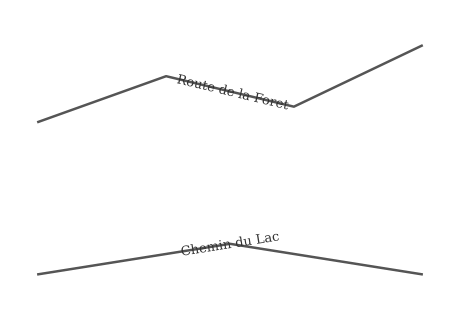
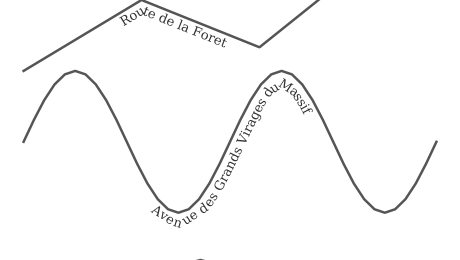
docs: data-defined size is dropped (re-inject Size expr), replace line-label screenshots in place
QGIS exports data-defined size as a static Size (keeps only rotation), so GeoServer
draws markers uniform; re-inject Size = field * 3.78 (mm->px) to restore it. Replace
the ddl and line screenshots with the corrected/improved renders instead of adding
an _improved copy.

diff --git a/docs/qgis-vs-geoserver-styling.md b/docs/qgis-vs-geoserver-styling.md
@@ -14,7 +14,7 @@ The symbology path mostly holds; the breakage is in labels, expressions, data-de
 | Polygon fill and outline + label | 201 | matches | works | - |
 | Simple field label | 201 | matches | works | - |
 | Data-defined rotation | 201 | matches (orientations vary) | works | - |
-| Data-defined size | 201 | varies, but at a much smaller scale than QGIS: the biggest marker renders small | degrades | set the symbol size unit in QGIS; verify, do not assume |
+| Data-defined size | 201 | dropped: QGIS exports a static `Size`, so GeoServer draws every marker the same; re-injecting the expression restores it | degrades then fixable | re-inject `Size` as `field * 3.78` (mm to px) |
 | Expression label with a string function | 500 | n/a | breaks | `fix-sld-functions.py` (rename or rework) |
 | Font marker | 201 | render fails: `Unknown font <name>` when the font is not in the container | breaks at render | install the font in GeoServer (Cloud 3.0.2: `/opt/additional_fonts`) |
 | Label on Postgres `text[]`, one value | 201 | matches | works | - |
@@ -43,7 +43,7 @@ Categorized renderer plus labels: reproduces (minor marker-size and label-offset
 | --- | --- |
 | ![cat_pts in QGIS](img/qgis_cat.png) | ![cat_pts in GeoServer](img/gs_cat.png) |
 
-Data-defined size and rotation: QGIS varies both; GeoServer keeps the rotation but renders every marker the same small size.
+Data-defined size and rotation: QGIS varies both. GeoServer keeps the rotation, but QGIS drops the size on export (static `Size`), so by default every marker is the same; shown here after re-injecting the size expression, which restores the variation to match QGIS.
 
 | QGIS | GeoServer |
 | --- | --- |
@@ -57,13 +57,11 @@ Markers rotated by a field (wind arrows): orientations reproduce; markers render
 
 Curved label along a line: the text follows the line on both; by default GeoServer centres it on the line while QGIS offsets it above.
 
-| QGIS | GeoServer (as exported) |
+As exported, the default looks poor: the label sits on the line and QGIS writes `maxAngleDelta=25`, too low to follow a real bend. Adding the GeoServer line-label vendor options (see the skill) lifts it off the line and follows the curve through its vertices:
+
+| QGIS | GeoServer (with line-label vendor options) |
 | --- | --- |
 | ![lines in QGIS](img/qgis_lines.png) | ![lines in GeoServer](img/gs_lines.png) |
-
-The default looks poor: the label sits on the line and QGIS exports `maxAngleDelta=25`, too low to follow a real bend. Add the GeoServer line-label vendor options (see the skill) and it lifts off the line and follows the curve through its vertices:
-
-![improved line labels in GeoServer](img/gs_lines_improved.png)
 
 Graduated renderer on real data (wind-flow streamlines, 7 speed classes): the classification and color ramp reproduce faithfully.
 
@@ -83,7 +81,7 @@ Safe 1:1 renames the script applies: `upper`, `lower`, `trim`, `length`, `concat
 
 ### Data-defined size renders uniform
 
-`ddl_pts` carries a triangle with data-defined size (`sz` = 4, 8, 12) and rotation (`ang` = 0, 45, 90). In QGIS the three triangles are clearly small, medium, large and rotated. GeoServer reproduces the rotation and does vary the size, but at a much smaller scale: the variation is there (the large one is bigger than the small one) yet compressed, so the biggest QGIS triangle renders small. It is a size-unit/DPI mismatch (QGIS mm vs SLD pixels), not a dropped property. Set the symbol size unit in QGIS and render both sides before trusting it.
+`ddl_pts` carries a triangle with data-defined size (`sz` = 4, 8, 12) and rotation (`ang` = 0, 45, 90). In QGIS the three triangles are clearly small, medium, large and rotated. QGIS exports the rotation as an expression but drops the size: the SLD carries a static `<se:Size>7</se:Size>`, so GeoServer draws all three the same. Re-inject the size as an expression, `<se:Size><ogc:Mul><ogc:PropertyName>sz</ogc:PropertyName><ogc:Literal>3.78</ogc:Literal></ogc:Mul></se:Size>` (3.78 = mm to px at 96 DPI), and the variation returns and matches QGIS, as shown above.
 
 ### Font marker needs the font in GeoServer
 

diff --git a/skills/qgis-to-geoserver/SKILL.md b/skills/qgis-to-geoserver/SKILL.md
@@ -92,6 +92,7 @@ Locate the element named in the error line with `grep -n` on that one file, neve
 - A `PropertyName` that is not a column of the GeoServer layer (QGIS join field, virtual field): GeoServer stores the style but every GetMap fails; `gs_check_layer` reports it in step 5. Either drop the rule in QGIS or publish a SQL view that carries the field, then restyle.
 - `Rendering process failed ... Unknown font X`: the style parses but the GetMap fails because the font (a `font-family` or a `ttf://` marker, often the fontconfig alias `Sans`) is not installed in GeoServer's JVM. Fetch the server's fonts (`curl $GS_URL/rest/fonts.json`) and reconcile: `python3 -I fix-sld-functions.py --available "<comma list from /rest/fonts>" /tmp/sld/*.sld` reports the missing ones. Then either install the real font (vanilla: data dir; Cloud 3.0.2: mount at `/opt/additional_fonts`), ask the user which installed font to use, or fall back with `--font-fallback SansSerif` (a Java logical font, always present; not `Arial`, which Linux containers lack).
 - Line labels look poor (sit on the line, do not follow bends): QGIS exports a `LinePlacement` with `followLine=true` but `maxAngleDelta=25` and no offset, so GeoServer centres the label on the line and keeps it straight through vertices. In the line `TextSymbolizer`, add `<se:PerpendicularOffset>N</se:PerpendicularOffset>` inside `<se:LinePlacement>` to lift it off the line (about half the font size), raise `<se:VendorOption name="maxAngleDelta">` to ~90 so it follows real bends, and add `<se:VendorOption name="repeat">250</se:VendorOption>` and `<se:VendorOption name="group">yes</se:VendorOption>` so long or multi-segment lines get one repeating label. Verified: on a curved line the label then lifts off and follows the curve through its vertices.
+- Markers all the same size when QGIS varied them: QGIS exports data-defined size as a static `<se:Size>` (the base size), keeping only the rotation as an expression. No error, step 5 passes, visible only in the render. Re-inject the size as an expression in the `Graphic`: `<se:Size><ogc:Mul><ogc:PropertyName>field</ogc:PropertyName><ogc:Literal>3.78</ogc:Literal></ogc:Mul></se:Size>` (3.78 = mm to px at 96 DPI; use 3.57 for GeoServer's 90.7 DPI default). Or set the symbol size unit to pixels in QGIS before export.
 
 ## 5. Check each layer with text, one layer per call
 
